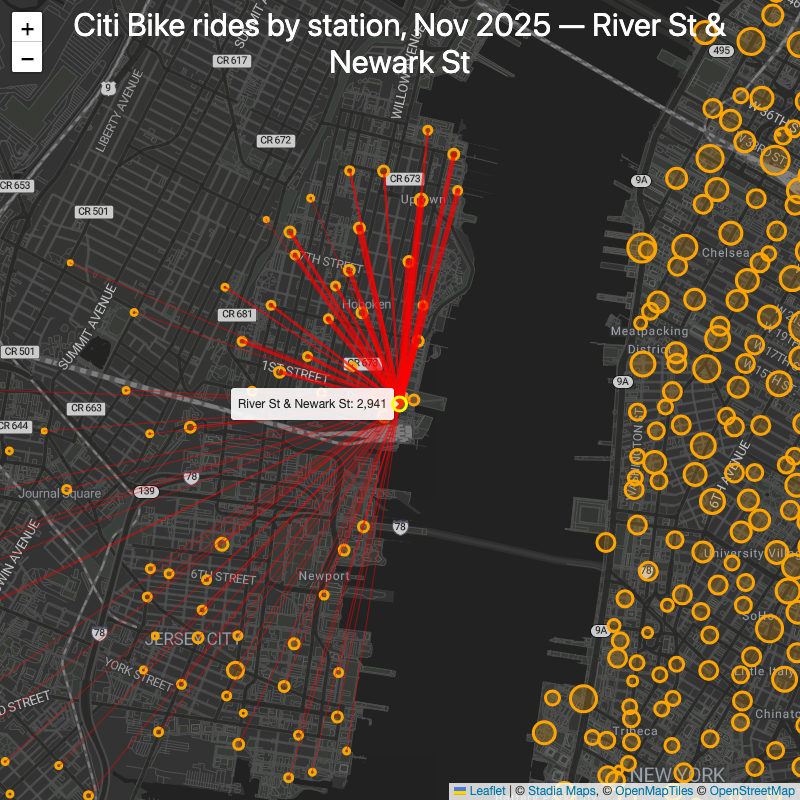
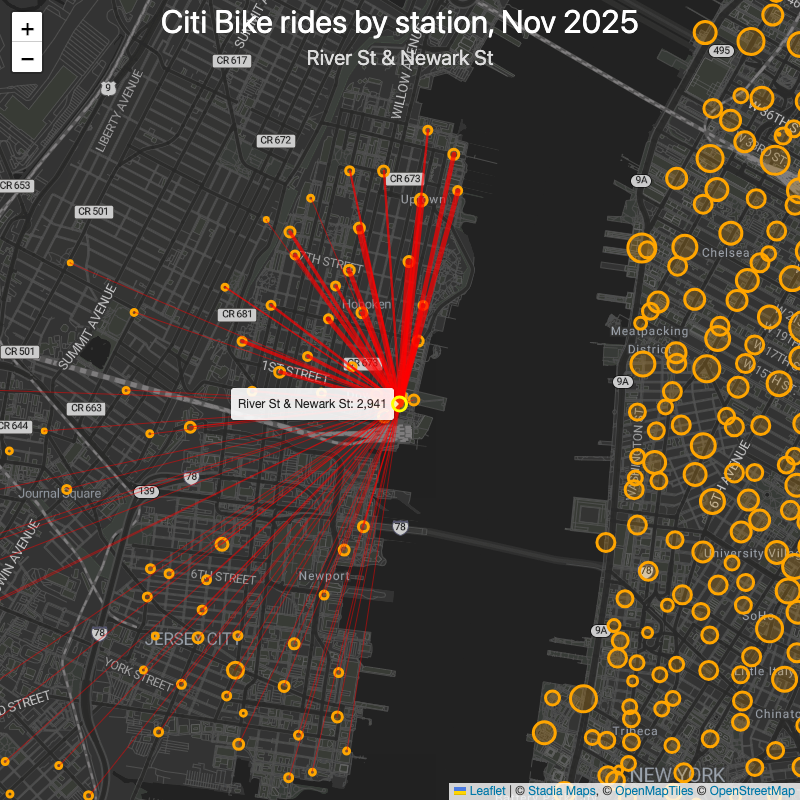
Render selected station as subtitle on /stations page
Separates the station name from the main title, displaying it
below in smaller gray text for better visual hierarchy.

🤖 Generated with [Claude Code](https://claude.com/claude-code)

Changed region(s): [[0.0938, 0.0, 0.9062, 0.0938]]

diff --git a/www/src/pages/Stations.tsx b/www/src/pages/Stations.tsx
@@ -235,13 +235,8 @@ export default function Stations() {
     return new Date(year, m - 1).toLocaleDateString('default', { month: 'short', year: 'numeric' })
   }, [month])
 
-  const title = useMemo(() => {
-    let t = `Citi Bike rides by station, ${monthLabel}`
-    if (selectedId && stations?.[selectedId]) {
-      t += ` — ${stations[selectedId].name}`
-    }
-    return t
-  }, [monthLabel, selectedId, stations])
+  const title = `Citi Bike rides by station, ${monthLabel}`
+  const subtitle = selectedId && stations?.[selectedId] ? stations[selectedId].name : null
 
   if (error) {
     return (
@@ -278,7 +273,10 @@ export default function Stations() {
           <MapEvents setLat={setLat} setLng={setLng} setZoom={setZoom} />
         </MapContainer>
         {loading && <div className={css.loading}>Loading...</div>}
-        <div className={css.title}>{title}</div>
+        <div className={css.titleContainer}>
+          <div className={css.title}>{title}</div>
+          {subtitle && <div className={css.subtitle}>{subtitle}</div>}
+        </div>
       </main>
     </div>
   )

diff --git a/www/src/stations.module.css b/www/src/stations.module.css
@@ -17,15 +17,24 @@
     height: 100%;
 }
 
-.title {
-    margin: 0.2em 1.5em;
-    text-align: center;
-    line-height: 1.15;
-    font-size: 2rem;
+.titleContainer {
     position: fixed;
     top: 0;
     z-index: 1000;
+    text-align: center;
+    margin: 0.2em 1.5em;
+}
+
+.title {
+    line-height: 1.15;
+    font-size: 2rem;
     color: white;
+}
+
+.subtitle {
+    font-size: 1.3rem;
+    color: #ddd;
+    margin-top: 0.1em;
 }
 
 .homeMap {
